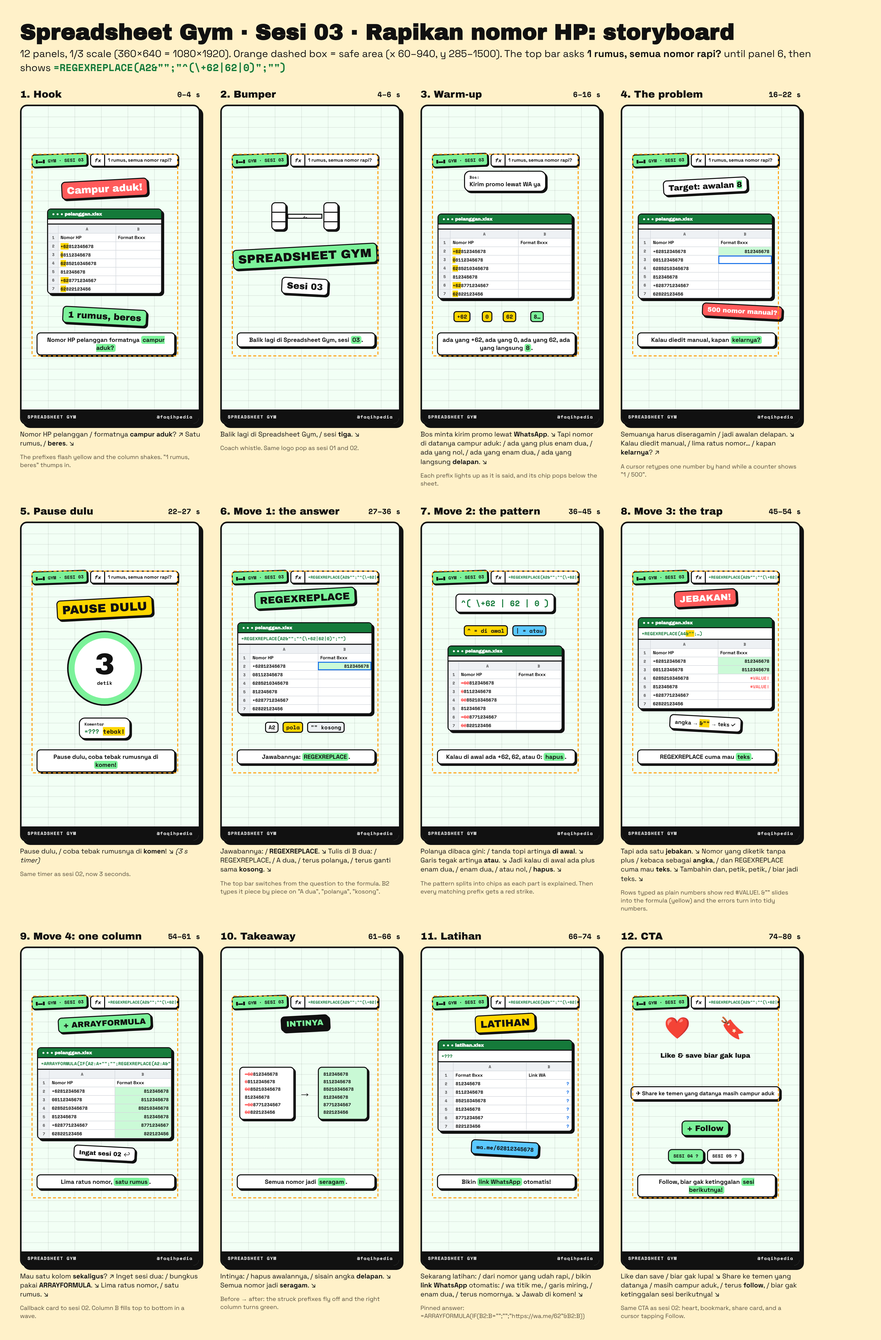
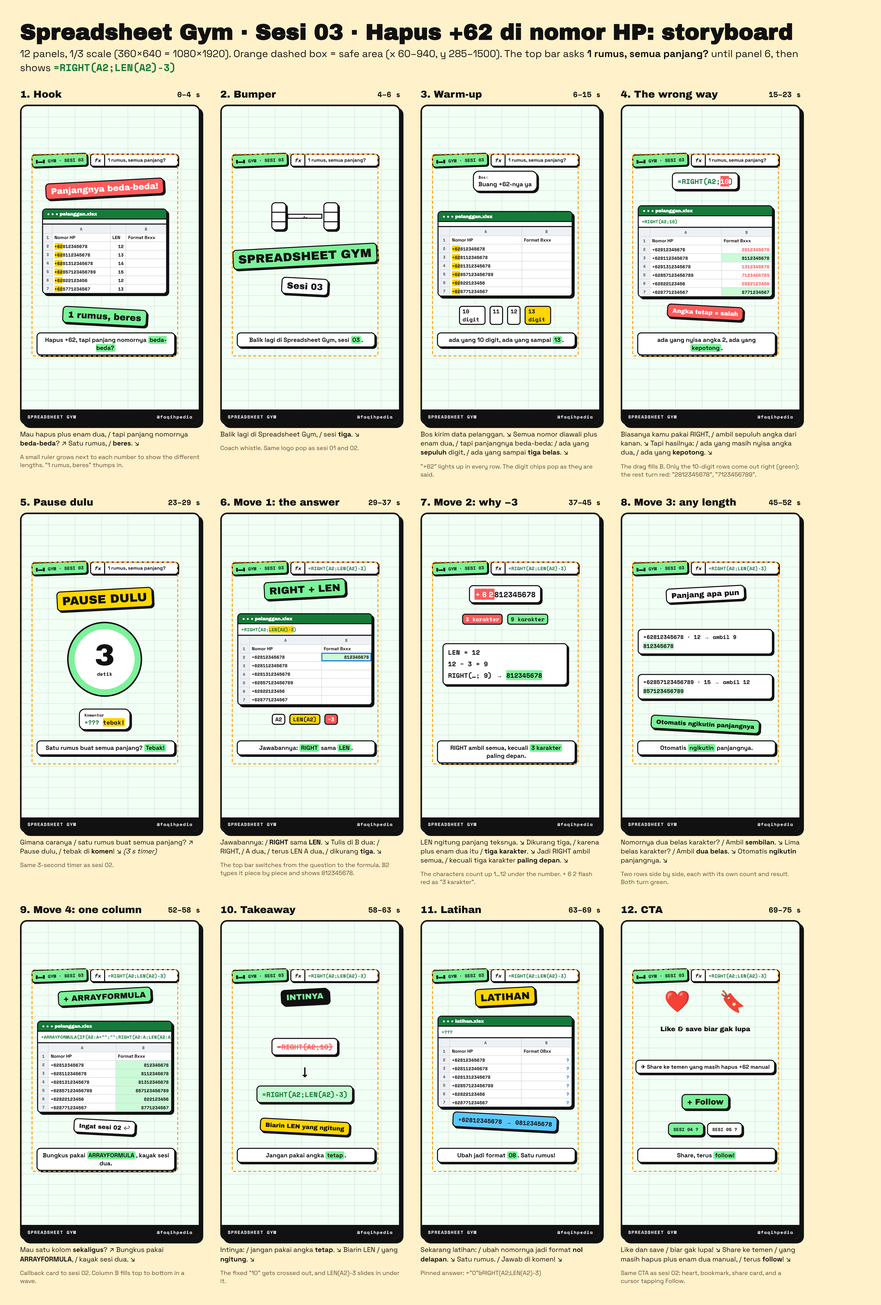
Spreadsheet Gym sesi 03: switch to RIGHT+LEN (remove +62, 10-13 digit numbers)
Claude-Session: https://claude.ai/code/session_018xRo3ZmD22FHxxpmWKTbyx

diff --git a/spreadsheet-gym-nomor-hp/storyboard/storyboard.html b/spreadsheet-gym-nomor-hp/storyboard/storyboard.html
@@ -54,105 +54,106 @@ table.sh td.n { text-align: right; }
 </head>
 <body>
 <div class="page">
-  <h1>Spreadsheet Gym · Sesi 03 · Rapikan nomor HP: storyboard</h1>
-  <div class="sub">12 panels, 1/3 scale (360×640 = 1080×1920). Orange dashed box = safe area (x 60–940, y 285–1500). The top bar asks <code style="font-family:'Space Grotesk';color:#111">1 rumus, semua nomor rapi?</code> until panel 6, then shows <code>=REGEXREPLACE(A2&amp;"";"^(\+62|62|0)";"")</code></div>
+  <h1>Spreadsheet Gym · Sesi 03 · Hapus +62 di nomor HP: storyboard</h1>
+  <div class="sub">12 panels, 1/3 scale (360×640 = 1080×1920). Orange dashed box = safe area (x 60–940, y 285–1500). The top bar asks <code style="font-family:'Space Grotesk';color:#111">1 rumus, semua panjang?</code> until panel 6, then shows <code>=RIGHT(A2;LEN(A2)-3)</code></div>
   <div class="grid" id="grid"></div>
 </div>
 <script>
-const Q = `<div class="head"><div class="chip">▮▬▮ GYM · SESI 03</div><div class="bar"><i>fx</i><b style="color:#111;font-family:'Space Grotesk'">1 rumus, semua nomor rapi?</b></div></div>`;
-const A = `<div class="head"><div class="chip">▮▬▮ GYM · SESI 03</div><div class="bar"><i>fx</i><b style="font-size:8px">=REGEXREPLACE(A2&amp;"";"^(\\+62|62|0)";"")</b></div></div>`;
+const Q = `<div class="head"><div class="chip">▮▬▮ GYM · SESI 03</div><div class="bar"><i>fx</i><b style="color:#111;font-family:'Space Grotesk'">1 rumus, semua panjang?</b></div></div>`;
+const A = `<div class="head"><div class="chip">▮▬▮ GYM · SESI 03</div><div class="bar"><i>fx</i><b>=RIGHT(A2;LEN(A2)-3)</b></div></div>`;
 const strip = `<div class="strip"><span>SPREADSHEET GYM</span><span>@faqihpedia</span></div>`;
 const at = (x, y, html, cls = '') => `<div class="st ${cls}" style="left:${x}px;top:${y}px">${html}</div>`;
 const cap = (h) => `<div class="cap">${h}</div>`;
-const NUMS = [['+62', '812345678'], ['0', '8112345678'], ['62', '85210345678'], ['', '812345678'], ['+62', '8771234567'], ['62', '822123456']];
-// phone sheet: mode 'raw' | 'hl' (prefix highlighted) | 'strike' (prefix struck) ; b: column B values or null
-function phones({ mode = 'raw', b = null, bcls = [], fbar = '', title = 'pelanggan.xlsx', colB = 'Format 8xxx', sel = 0, w = 270, bh = null }) {
-  let h = `<div class="win" style="width:${w}px"><div class="tb">● ● ● ${title}</div><div class="fb">${fbar}</div><table class="sh" style="width:100%"><tr><th></th><th>A</th><th>B</th></tr>`;
-  h += `<tr><th>1</th><td style="font-family:'Space Grotesk';font-weight:700">Nomor HP</td><td style="font-family:'Space Grotesk';font-weight:700">${colB}</td></tr>`;
-  NUMS.forEach(([p, n], i) => {
-    const pre = !p ? '' : mode === 'hl' ? `<span style="background:#FFD600">${p}</span>` : mode === 'strike' ? `<span class="strike">${p}</span>` : p;
+const NUMS = ['812345678', '8112345678', '81312345678', '857123456789', '822123456', '8771234567'];
+const wrong = (n) => ('+62' + n).slice(-10);
+function phones({ hl = false, b = null, bcls = [], fbar = '', title = 'pelanggan.xlsx', colB = 'Format 8xxx', colA = 'Nomor HP', sel = 0, w = 270, len = false, aval = null }) {
+  let h = `<div class="win" style="width:${w}px"><div class="tb">● ● ● ${title}</div><div class="fb">${fbar}</div><table class="sh" style="width:100%"><tr><th></th><th>A</th>${len ? '<th></th>' : ''}<th>B</th></tr>`;
+  h += `<tr><th>1</th><td style="font-family:'Space Grotesk';font-weight:700">${colA}</td>${len ? `<td style="font-family:'Space Grotesk';font-weight:700">LEN</td>` : ''}<td style="font-family:'Space Grotesk';font-weight:700">${colB}</td></tr>`;
+  NUMS.forEach((n, i) => {
+    const a = aval ? aval[i] : (hl ? `<span style="background:#FFD600">+62</span>${n}` : '+62' + n);
     const bv = b ? (b[i] ?? '') : '';
-    h += `<tr><th>${i + 2}</th><td>${pre}${n}</td><td class="n ${bcls[i] ?? ''} ${sel === i + 2 ? 'selc' : ''}">${bv}</td></tr>`;
+    h += `<tr><th>${i + 2}</th><td>${a}</td>${len ? `<td class="n">${n.length + 3}</td>` : ''}<td class="n ${bcls[i] ?? ''} ${sel === i + 2 ? 'selc' : ''}">${bv}</td></tr>`;
   });
   return h + `</table></div>`;
 }
-const CLEAN = NUMS.map(([, n]) => n);
 const P = [
   { t: 'Hook', d: '0–4 s', html: `${Q}
-    ${at(166, 165, `<div class="box big" style="background:var(--red);color:#fff;font-size:20px">Campur aduk!</div>`, 'tilt-l')}
-    ${at(166, 290, phones({ mode: 'hl', w: 230 }))}
+    ${at(166, 165, `<div class="box big" style="background:var(--red);color:#fff;font-size:17px">Panjangnya beda-beda!</div>`, 'tilt-l')}
+    ${at(166, 290, phones({ hl: true, len: true, w: 250 }))}
     ${at(166, 420, `<div class="box big" style="background:var(--green);font-size:18px">1 rumus, beres</div>`, 'tilt-r')}
-    ${cap('Nomor HP pelanggan formatnya <em>campur aduk?</em>')}`,
-    vo: 'Nomor HP pelanggan / formatnya <b>campur aduk</b>? ↗ Satu rumus, / <b>beres</b>. ↘', note: 'The prefixes flash yellow and the column shakes. "1 rumus, beres" thumps in.' },
+    ${cap('Hapus +62, tapi panjang nomornya <em>beda-beda?</em>')}`,
+    vo: 'Mau hapus plus enam dua, / tapi panjang nomornya <b>beda-beda</b>? ↗ Satu rumus, / <b>beres</b>. ↘', note: 'A small ruler grows next to each number to show the different lengths. "1 rumus, beres" thumps in.' },
   { t: 'Bumper', d: '4–6 s', html: `${Q}
     ${at(166, 220, `<div style="display:flex;gap:2px;align-items:center"><div class="box" style="width:30px;height:56px;padding:0;background:repeating-linear-gradient(#fff 0 17px,#111 17px 19px)"></div><div style="width:70px;height:10px;background:#fff;border:2px solid #111;font:italic 700 7px 'Space Mono';text-align:center">fx</div><div class="box" style="width:30px;height:56px;padding:0;background:repeating-linear-gradient(#fff 0 17px,#111 17px 19px)"></div></div>`)}
     ${at(166, 300, `<div class="box big" style="background:var(--green);font-size:24px">SPREADSHEET GYM</div>`, 'tilt-l')}
     ${at(166, 360, `<div class="box big" style="font-size:18px">Sesi 03</div>`, 'tilt-r')}
     ${cap('Balik lagi di Spreadsheet Gym, sesi <em>03</em>.')}`,
     vo: 'Balik lagi di Spreadsheet Gym, / sesi <b>tiga</b>. ↘', note: 'Coach whistle. Same logo pop as sesi 01 and 02.' },
-  { t: 'Warm-up', d: '6–16 s', html: `${Q}
-    ${at(166, 150, `<div class="box" style="border-radius:12px"><div class="mono" style="font-size:8px">Bos:</div><div style="font-weight:700;font-size:12px">Kirim promo lewat WA ya</div></div>`)}
-    ${at(166, 300, phones({ mode: 'hl' }))}
-    ${at(80, 420, `<span class="tok" style="background:var(--yellow)">+62</span>`)}${at(130, 420, `<span class="tok" style="background:var(--yellow)">0</span>`)}${at(175, 420, `<span class="tok" style="background:var(--yellow)">62</span>`)}${at(230, 420, `<span class="tok" style="background:var(--green)">8…</span>`)}
-    ${cap('ada yang +62, ada yang 0, ada yang 62, ada yang langsung <em>8</em>.')}`,
-    vo: 'Bos minta kirim promo lewat <b>WhatsApp</b>. ↘ Tapi nomor di datanya campur aduk: / ada yang plus enam dua, / ada yang nol, / ada yang enam dua, / ada yang langsung <b>delapan</b>. ↘', note: 'Each prefix lights up as it is said, and its chip pops below the sheet.' },
-  { t: 'The problem', d: '16–22 s', html: `${Q}
-    ${at(166, 160, `<div class="box big" style="font-size:16px">Target: awalan <span style="background:var(--green)">8</span></div>`, 'tilt-l')}
-    ${at(166, 300, phones({ mode: 'raw', b: ['812345678', '', '', '', '', ''], bcls: ['hl-d'], sel: 3 }))}
-    ${at(240, 410, `<div class="box big" style="background:var(--red);color:#fff;font-size:13px">500 nomor manual?</div>`, 'tilt-r')}
-    ${cap('Kalau diedit manual, kapan <em>kelarnya?</em>')}`,
-    vo: 'Semuanya harus diseragamin / jadi awalan delapan. ↘ Kalau diedit manual, / lima ratus nomor… / kapan <b>kelarnya</b>? ↗', note: 'A cursor retypes one number by hand while a counter shows "1 / 500".' },
-  { t: 'Pause dulu', d: '22–27 s', html: `${Q}
+  { t: 'Warm-up', d: '6–15 s', html: `${Q}
+    ${at(166, 150, `<div class="box" style="border-radius:12px"><div class="mono" style="font-size:8px">Bos:</div><div style="font-weight:700;font-size:12px">Buang +62-nya ya</div></div>`)}
+    ${at(166, 295, phones({ hl: true }))}
+    ${at(166, 418, `<div style="display:flex;gap:4px"><span class="tok">10 digit</span><span class="tok">11</span><span class="tok">12</span><span class="tok" style="background:var(--yellow)">13 digit</span></div>`)}
+    ${cap('ada yang 10 digit, ada yang sampai <em>13</em>.')}`,
+    vo: 'Bos kirim data pelanggan. ↘ Semua nomor diawali plus enam dua, / tapi panjangnya beda-beda: / ada yang <b>sepuluh</b> digit, / ada yang sampai <b>tiga belas</b>. ↘', note: '"+62" lights up in every row. The digit chips pop as they are said.' },
+  { t: 'The wrong way', d: '15–23 s', html: `${Q}
+    ${at(166, 150, `<div class="box mono" style="font-size:14px;color:var(--fx)">=RIGHT(A2;<span style="background:var(--red);color:#fff">10</span>)</div>`)}
+    ${at(166, 290, phones({ b: NUMS.map((n) => wrong(n) === n ? n : `<span class="zero">${wrong(n)}</span>`), bcls: NUMS.map((n) => wrong(n) === n ? 'hl-d' : ''), fbar: '=RIGHT(A2;10)' }))}
+    ${at(166, 412, `<div class="box big" style="background:var(--red);color:#fff;font-size:12px">Angka tetap = salah</div>`, 'tilt-r')}
+    ${cap('ada yang nyisa angka 2, ada yang <em>kepotong</em>.')}`,
+    vo: 'Biasanya kamu pakai RIGHT, / ambil sepuluh angka dari kanan. ↘ Tapi hasilnya: / ada yang masih nyisa angka dua, / ada yang <b>kepotong</b>. ↘', note: 'The drag fills B. Only the 10-digit rows come out right (green); the rest turn red: "2812345678", "7123456789".' },
+  { t: 'Pause dulu', d: '23–29 s', html: `${Q}
     ${at(166, 170, `<div class="box big" style="background:var(--yellow);font-size:24px">PAUSE DULU</div>`, 'tilt-l')}
     ${at(166, 290, `<div style="width:150px;height:150px;border-radius:50%;border:3px solid #111;background:#fff;display:flex;flex-direction:column;align-items:center;justify-content:center;box-shadow:inset 0 0 0 12px var(--green)"><div class="big" style="font-size:60px;line-height:1">3</div><div class="mono" style="font-size:10px">detik</div></div>`)}
     ${at(166, 410, `<div class="box" style="border-radius:12px"><div class="mono" style="font-size:8px">Komentar</div><div class="mono" style="font-size:12px;color:var(--fx)">=??? <span style="background:var(--yellow);color:#111">tebak!</span></div></div>`)}
-    ${cap('Pause dulu, coba tebak rumusnya di <em>komen!</em>')}`,
-    vo: 'Pause dulu, / coba tebak rumusnya di <b>komen</b>! ↘ <i>(3 s timer)</i>', note: 'Same timer as sesi 02, now 3 seconds.' },
-  { t: 'Move 1: the answer', d: '27–36 s', html: `${A}
-    ${at(166, 150, `<div class="box big" style="background:var(--green);font-size:20px">REGEXREPLACE</div>`, 'tilt-l')}
-    ${at(166, 290, phones({ mode: 'raw', b: ['812345678', '', '', '', '', ''], bcls: ['hl-d'], sel: 2, fbar: '=REGEXREPLACE(A2&amp;"";"^(\\+62|62|0)";"")' }))}
-    ${at(166, 408, `<div style="display:flex;gap:4px"><span class="tok">A2</span><span class="tok" style="background:var(--yellow)">pola</span><span class="tok" style="background:#EEF1F4">"" kosong</span></div>`)}
-    ${cap('Jawabannya: <em>REGEXREPLACE</em>.')}`,
-    vo: 'Jawabannya: / <b>REGEXREPLACE</b>. ↘ Tulis di B dua: / REGEXREPLACE, / A dua, / terus polanya, / terus ganti sama <b>kosong</b>. ↘', note: 'The top bar switches from the question to the formula. B2 types it piece by piece on "A dua", "polanya", "kosong".' },
-  { t: 'Move 2: the pattern', d: '36–45 s', html: `${A}
-    ${at(166, 160, `<div class="box mono" style="font-size:16px;color:var(--fx)">^( \\+62 | 62 | 0 )</div>`)}
-    ${at(166, 215, `<div style="display:flex;gap:5px"><span class="tok" style="background:var(--yellow)">^ = di awal</span><span class="tok" style="background:var(--blue)">| = atau</span></div>`)}
-    ${at(166, 330, phones({ mode: 'strike', w: 230 }))}
-    ${cap('Kalau di awal ada +62, 62, atau 0: <em>hapus</em>.')}`,
-    vo: 'Polanya dibaca gini: / tanda topi artinya <b>di awal</b>. ↘ Garis tegak artinya <b>atau</b>. ↘ Jadi kalau di awal ada plus enam dua, / enam dua, / atau nol, / <b>hapus</b>. ↘', note: 'The pattern splits into chips as each part is explained. Then every matching prefix gets a red strike.' },
-  { t: 'Move 3: the trap', d: '45–54 s', html: `${A}
-    ${at(166, 150, `<div class="box big" style="background:var(--red);color:#fff;font-size:18px">JEBAKAN!</div>`, 'tilt-l')}
-    ${at(166, 280, phones({ mode: 'raw', b: ['812345678', '8112345678', '<span class="zero">#VALUE!</span>', '<span class="zero">#VALUE!</span>', '', ''], bcls: ['hl-d', 'hl-d', '', ''], fbar: '=REGEXREPLACE(A4<span style="background:#FFD600">&amp;""</span>;…)' }))}
-    ${at(166, 400, `<div class="box" style="font-size:11px;font-weight:700">angka → <span class="mono" style="background:var(--yellow)">&amp;""</span> → teks ✓</div>`, 'tilt-r')}
-    ${cap('REGEXREPLACE cuma mau <em>teks</em>.')}`,
-    vo: 'Tapi ada satu <b>jebakan</b>. ↘ Nomor yang diketik tanpa plus / kebaca sebagai <b>angka</b>, / dan REGEXREPLACE cuma mau <b>teks</b>. ↘ Tambahin dan, petik, petik, / biar jadi teks. ↘', note: 'Rows typed as plain numbers show red #VALUE!. &"" slides into the formula (yellow) and the errors turn into tidy numbers.' },
-  { t: 'Move 4: one column', d: '54–61 s', html: `${A}
+    ${cap('Satu rumus buat semua panjang? <em>Tebak!</em>')}`,
+    vo: 'Gimana caranya / satu rumus buat semua panjang? ↗ Pause dulu, / tebak di <b>komen</b>! ↘ <i>(3 s timer)</i>', note: 'Same 3-second timer as sesi 02.' },
+  { t: 'Move 1: the answer', d: '29–37 s', html: `${A}
+    ${at(166, 150, `<div class="box big" style="background:var(--green);font-size:20px">RIGHT + LEN</div>`, 'tilt-l')}
+    ${at(166, 290, phones({ b: ['812345678'], bcls: ['hl-d'], sel: 2, fbar: '=RIGHT(A2;<span style="background:#FFD600">LEN(A2)-3</span>)' }))}
+    ${at(166, 410, `<div style="display:flex;gap:4px"><span class="tok">A2</span><span class="tok" style="background:var(--yellow)">LEN(A2)</span><span class="tok" style="background:var(--red);color:#fff">−3</span></div>`)}
+    ${cap('Jawabannya: <em>RIGHT</em> sama <em>LEN</em>.')}`,
+    vo: 'Jawabannya: / <b>RIGHT</b> sama <b>LEN</b>. ↘ Tulis di B dua: / RIGHT, / A dua, / terus LEN A dua, / dikurang <b>tiga</b>. ↘', note: 'The top bar switches from the question to the formula. B2 types it piece by piece and shows 812345678.' },
+  { t: 'Move 2: why −3', d: '37–45 s', html: `${A}
+    ${at(166, 160, `<div class="box mono" style="font-size:15px"><span style="background:var(--red);color:#fff;padding:0 2px">+</span><span style="background:var(--red);color:#fff;padding:0 2px">6</span><span style="background:var(--red);color:#fff;padding:0 2px">2</span>812345678</div>`)}
+    ${at(166, 210, `<div style="display:flex;gap:5px"><span class="tok" style="background:var(--red);color:#fff">3 karakter</span><span class="tok" style="background:var(--green)">9 karakter</span></div>`)}
+    ${at(166, 300, `<div class="box mono" style="font-size:13px;line-height:1.8;white-space:normal;width:250px">LEN = <b>12</b><br>12 − 3 = <b>9</b><br>RIGHT(…; 9) → <span style="background:var(--green)">812345678</span></div>`)}
+    ${cap('RIGHT ambil semua, kecuali <em>3 karakter</em> paling depan.')}`,
+    vo: 'LEN ngitung panjang teksnya. ↘ Dikurang tiga, / karena plus enam dua itu / <b>tiga karakter</b>. ↘ Jadi RIGHT ambil semua, / kecuali tiga karakter <b>paling depan</b>. ↘', note: 'The characters count up 1…12 under the number. + 6 2 flash red as "3 karakter".' },
+  { t: 'Move 3: any length', d: '45–52 s', html: `${A}
+    ${at(166, 160, `<div class="box big" style="font-size:15px">Panjang apa pun</div>`, 'tilt-l')}
+    ${at(166, 255, `<div class="box mono" style="font-size:11px;line-height:1.7;white-space:normal;width:270px">+62812345678 · <b>12</b> → ambil <b>9</b><br><span style="background:#C9F9D5">812345678</span></div>`)}
+    ${at(166, 345, `<div class="box mono" style="font-size:11px;line-height:1.7;white-space:normal;width:270px">+62857123456789 · <b>15</b> → ambil <b>12</b><br><span style="background:#C9F9D5">857123456789</span></div>`)}
+    ${at(166, 420, `<div class="box big" style="background:var(--green);font-size:12px">Otomatis ngikutin panjangnya</div>`, 'tilt-r')}
+    ${cap('Otomatis <em>ngikutin</em> panjangnya.')}`,
+    vo: 'Nomornya dua belas karakter? / Ambil <b>sembilan</b>. ↘ Lima belas karakter? / Ambil <b>dua belas</b>. ↘ Otomatis <b>ngikutin</b> panjangnya. ↘', note: 'Two rows side by side, each with its own count and result. Both turn green.' },
+  { t: 'Move 4: one column', d: '52–58 s', html: `${A}
     ${at(166, 150, `<div class="box big" style="background:var(--green);font-size:16px">+ ARRAYFORMULA</div>`, 'tilt-l')}
-    ${at(166, 290, phones({ mode: 'raw', b: CLEAN, bcls: CLEAN.map(() => 'hl-d'), fbar: '=ARRAYFORMULA(IF(A2:A="";"";REGEXREPLACE(A2:A&amp;"";…)))' }))}
+    ${at(166, 290, phones({ b: NUMS, bcls: NUMS.map(() => 'hl-d'), fbar: '=ARRAYFORMULA(IF(A2:A="";"";RIGHT(A2:A;LEN(A2:A)-3)))' }))}
     ${at(166, 410, `<div class="box big" style="font-size:12px">Ingat sesi 02 ↩</div>`, 'tilt-r')}
-    ${cap('Lima ratus nomor, <em>satu rumus</em>.')}`,
-    vo: 'Mau satu kolom <b>sekaligus</b>? ↗ Inget sesi dua: / bungkus pakai <b>ARRAYFORMULA</b>. ↘ Lima ratus nomor, / satu rumus. ↘', note: 'Callback card to sesi 02. Column B fills top to bottom in a wave.' },
-  { t: 'Takeaway', d: '61–66 s', html: `${A}
+    ${cap('Bungkus pakai <em>ARRAYFORMULA</em>, kayak sesi dua.')}`,
+    vo: 'Mau satu kolom <b>sekaligus</b>? ↗ Bungkus pakai <b>ARRAYFORMULA</b>, / kayak sesi dua. ↘', note: 'Callback card to sesi 02. Column B fills top to bottom in a wave.' },
+  { t: 'Takeaway', d: '58–63 s', html: `${A}
     ${at(166, 150, `<div class="box big" style="background:#111;color:var(--green);font-size:16px">INTINYA</div>`, 'tilt-l')}
-    ${at(90, 290, `<div class="box mono" style="font-size:9px;line-height:1.7;white-space:normal;width:110px">${NUMS.map(([p, n]) => `<div>${p ? `<span class="strike">${p}</span>` : ''}${n}</div>`).join('')}</div>`)}
-    ${at(166, 290, `<div class="big" style="font-size:24px">→</div>`)}
-    ${at(242, 290, `<div class="box mono" style="font-size:9px;line-height:1.7;background:#C9F9D5;width:100px">${CLEAN.map((n) => `<div>${n}</div>`).join('')}</div>`)}
-    ${cap('Semua nomor jadi <em>seragam</em>.')}`,
-    vo: 'Intinya: / hapus awalannya, / sisain angka <b>delapan</b>. ↘ Semua nomor jadi <b>seragam</b>. ↘', note: 'Before → after: the struck prefixes fly off and the right column turns green.' },
-  { t: 'Latihan', d: '66–74 s', html: `${A}
+    ${at(166, 250, `<div class="box mono" style="font-size:14px"><span class="strike">=RIGHT(A2;10)</span></div>`)}
+    ${at(166, 300, `<div class="big" style="font-size:22px">↓</div>`)}
+    ${at(166, 345, `<div class="box mono" style="font-size:14px;background:#C9F9D5;color:var(--fx)">=RIGHT(A2;LEN(A2)-3)</div>`)}
+    ${at(166, 410, `<div class="box big" style="font-size:12px;background:var(--yellow)">Biarin LEN yang ngitung</div>`, 'tilt-r')}
+    ${cap('Jangan pakai angka <em>tetap</em>.')}`,
+    vo: 'Intinya: / jangan pakai angka <b>tetap</b>. ↘ Biarin LEN / yang <b>ngitung</b>. ↘', note: 'The fixed "10" gets crossed out, and LEN(A2)-3 slides in under it.' },
+  { t: 'Latihan', d: '63–69 s', html: `${A}
     ${at(166, 150, `<div class="box big" style="background:var(--yellow);font-size:20px">LATIHAN</div>`, 'tilt-l')}
-    ${at(166, 275, phones({ mode: 'raw', b: CLEAN.map(() => '<b style="color:#1A73E8">?</b>'), colB: 'Link WA', fbar: '=??? ', title: 'latihan.xlsx' }).replace('Nomor HP</td>', 'Format 8xxx</td>').replace(/\+62|>0(?=8)|>62(?=8)/g, (m) => m.startsWith('>') ? '>' : ''))}
-    ${at(166, 400, `<div class="box mono" style="font-size:11px;background:var(--blue)">wa.me/62812345678</div>`, 'tilt-r')}
-    ${cap('Bikin <em>link WhatsApp</em> otomatis!')}`,
-    vo: 'Sekarang latihan: / dari nomor yang udah rapi, / bikin <b>link WhatsApp</b> otomatis: / wa titik me, / garis miring, / enam dua, / terus nomornya. ↘ Jawab di komen! ↘', note: 'Pinned answer: =ARRAYFORMULA(IF(B2:B="";"";"https://wa.me/62"&B2:B))' },
-  { t: 'CTA', d: '74–80 s', html: `${A}
+    ${at(166, 280, phones({ b: NUMS.map(() => '<b style="color:#1A73E8">?</b>'), colB: 'Format 08xx', fbar: '=??? ', title: 'latihan.xlsx' }))}
+    ${at(166, 400, `<div class="box mono" style="font-size:12px;background:var(--blue)">+62812345678 → 0812345678</div>`, 'tilt-r')}
+    ${cap('Ubah jadi format <em>08</em>. Satu rumus!')}`,
+    vo: 'Sekarang latihan: / ubah nomornya jadi format <b>nol delapan</b>. ↘ Satu rumus. / Jawab di komen! ↘', note: 'Pinned answer: ="0"&RIGHT(A2;LEN(A2)-3)' },
+  { t: 'CTA', d: '69–75 s', html: `${A}
     ${at(110, 160, `<div style="font-size:42px;line-height:1">❤</div>`)}${at(220, 160, `<div style="font-size:42px;line-height:1">🔖</div>`)}
     ${at(166, 215, `<div class="big" style="font-size:13px">Like &amp; save biar gak lupa</div>`)}
-    ${at(166, 290, `<div class="box" style="font-weight:700;font-size:11px">✈ Share ke temen yang datanya masih campur aduk</div>`)}
+    ${at(166, 290, `<div class="box" style="font-weight:700;font-size:11px">✈ Share ke temen yang masih hapus +62 manual</div>`)}
     ${at(166, 360, `<div class="box big" style="font-size:16px;background:var(--green)">+ Follow</div>`)}
     ${at(166, 415, `<div style="display:flex;gap:6px"><span class="box mono" style="font-size:9px;background:var(--green)">SESI 04 ?</span><span class="box mono" style="font-size:9px">SESI 05 ?</span></div>`)}
-    ${cap('Follow, biar gak ketinggalan <em>sesi berikutnya!</em>')}`,
-    vo: 'Like dan save / biar gak lupa! ↘ Share ke temen yang datanya / masih campur aduk, / terus <b>follow</b>, / biar gak ketinggalan sesi berikutnya! ↘', note: 'Same CTA as sesi 02: heart, bookmark, share card, and a cursor tapping Follow.' },
+    ${cap('Share, terus <em>follow!</em>')}`,
+    vo: 'Like dan save / biar gak lupa! ↘ Share ke temen / yang masih hapus plus enam dua manual, / terus <b>follow</b>! ↘', note: 'Same CTA as sesi 02: heart, bookmark, share card, and a cursor tapping Follow.' },
 ];
 document.getElementById('grid').innerHTML = P.map((p, i) => `
   <div class="cell">

diff --git a/spreadsheet-gym-nomor-hp/script.md b/spreadsheet-gym-nomor-hp/script.md
@@ -1,13 +1,13 @@
-# Spreadsheet Gym · Sesi 03 · Rapikan nomor HP
+# Spreadsheet Gym · Sesi 03 · Hapus +62 di nomor HP
 
-Reels 9:16, about 75 seconds. Format from the Faqihpedia Segment Kit (`brand/segment-kit.html`), with the Sesi 02 changes:
-hook → bumper → warm-up (soal kantor) → pause dulu (3 seconds) → gerakan → jebakan → intinya → latihan → CTA.
+Reels 9:16, about 70 seconds. Format from the Faqihpedia Segment Kit (`brand/segment-kit.html`), with the Sesi 02 changes:
+hook → bumper → warm-up (soal kantor) → the wrong way → pause dulu (3 seconds) → gerakan → intinya → latihan → CTA.
 Storyboard: `storyboard.png` (12 panels, same numbers as the table).
 
-**Main formula (shown in the top bar only after the answer is said; before that the bar reads "1 rumus, semua nomor rapi?"):**
-`=REGEXREPLACE(A2&"";"^(\+62|62|0)";"")`
+**Main formula (shown in the top bar only after the answer is said; before that the bar reads "1 rumus, semua panjang?"):**
+`=RIGHT(A2;LEN(A2)-3)`
 
-**Practice data:** your Drive sheet "🏋🏻♀ Spreadsheets Gym", Day 2 (mixed prefixes +62, 62, 0 and 8, all turned into numbers that start with 8).
+**Practice data:** your Drive sheet "🏋🏻♀ Spreadsheets Gym", Day 1 ("Ubah format nomor HP dengan prefix +62 menjadi prefix 8"). Every number starts with +62, but the numbers are 10 to 13 digits long (counted the usual way, starting with 08).
 
 ## How to read the VO marks
 
@@ -18,48 +18,52 @@ Storyboard: `storyboard.png` (12 panels, same numbers as the table).
 | `/` | short pause (about half a second) |
 | **bold** | the stressed word |
 
-Say the numbers in Indonesian ("enam dua", "nol delapan"). On-screen formulas use `;` (Google Sheets with Indonesian locale). If your Sheets uses English, it's `,`.
+Say the numbers in Indonesian ("enam dua", "sepuluh", "dikurang tiga"). On-screen formulas use `;` (Google Sheets with Indonesian locale). If your Sheets uses English, it's `,`.
 
 ## Script
 
 | # | Part | ~Duration | On screen | VO (what you say) |
 |---|---|---|---|---|
-| 1 | Hook | 4 s | Column of messy numbers (+62…, 08…, 62…, 8…) shaking · red sticker "Campur aduk!" · then green "1 rumus, beres" | Nomor HP pelanggan / formatnya **campur aduk**? ↗ Satu rumus, / **beres**. ↘ |
+| 1 | Hook | 4 s | Column of +62 numbers with different lengths, a length ruler next to each · red sticker "Panjangnya beda-beda!" · green "1 rumus, beres" | Mau hapus plus enam dua, / tapi panjang nomornya **beda-beda**? ↗ Satu rumus, / **beres**. ↘ |
 | 2 | Bumper | 2 s | Barbell logo, *SPREADSHEET GYM*, *Sesi 03* · coach whistle | Balik lagi di Spreadsheet Gym, / sesi **tiga**. ↘ |
-| 3 | Warm-up | 10 s | Boss chat "Kirim promo lewat WA ya" · sheet `pelanggan.xlsx`: Nama, Nomor HP · the prefixes light up one by one (+62, 0, 62, 8) | Bos minta kirim promo lewat **WhatsApp**. ↘ Tapi nomor di datanya campur aduk: / ada yang plus enam dua, / ada yang nol, / ada yang enam dua, / ada yang langsung **delapan**. ↘ |
-| 4 | The problem | 6 s | Target column "Format 8xxx" empty · counter "500 nomor" · cursor editing one cell by hand | Semuanya harus diseragamin / jadi awalan delapan. ↘ Kalau diedit manual, / lima ratus nomor… / kapan **kelarnya**? ↗ |
-| 5 | Pause dulu | 2 s + 3 s timer | **PAUSE DULU** + 3-second countdown · comment bubble "=??? tebak!" | Pause dulu, / coba tebak rumusnya di **komen**! ↘ *(3 seconds silent)* |
-| 6 | Move 1: the answer | 9 s | **REGEXREPLACE** · B2 types `=REGEXREPLACE(A2&"";"^(\+62\|62\|0)";"")` piece by piece · result 812345678 · the top bar reveals the formula | Jawabannya: / **REGEXREPLACE**. ↘ Tulis di B dua: / REGEXREPLACE, / A dua, / terus polanya, / terus ganti sama **kosong**. ↘ |
-| 7 | Move 2: reading the pattern | 9 s | The pattern `^(\+62\|62\|0)` broken into chips: `^` = "di awal", `\|` = "atau", `+62` · `62` · `0` · the matching prefix in each number gets a red strike | Polanya dibaca gini: / tanda topi artinya **di awal**. ↘ Garis tegak artinya **atau**. ↘ Jadi kalau di awal ada plus enam dua, / enam dua, / atau nol, / **hapus**. ↘ |
-| 8 | Move 3: the trap | 9 s | A cell without + shows `#VALUE!` (red): "REGEXREPLACE cuma mau teks" · `&""` gets added (yellow) · error → 812345678 | Tapi ada satu **jebakan**. ↘ Nomor yang diketik tanpa plus / kebaca sebagai **angka**, / dan REGEXREPLACE cuma mau **teks**. ↘ Tambahin dan, petik, petik, / biar jadi teks. ↘ |
-| 9 | Move 4: one column | 7 s | Callback to Sesi 02: wrap in `ARRAYFORMULA(IF(A2:A="";""; … A2:A&"" …))` · column B fills top to bottom in a wave | Mau satu kolom **sekaligus**? ↗ Inget sesi dua: / bungkus pakai **ARRAYFORMULA**. ↘ Lima ratus nomor, / satu rumus. ↘ |
-| 10 | Takeaway | 5 s | Before → after: messy column → tidy 8xxx column, all green | Intinya: / hapus awalannya, / sisain angka **delapan**. ↘ Semua nomor jadi **seragam**. ↘ |
-| 11 | Latihan | 8 s | **LATIHAN** · sheet: B "Format 8xxx" (tidy), C "Link WA" = **?** · example chip `wa.me/62812345678` | Sekarang latihan: / dari nomor yang udah rapi, / bikin **link WhatsApp** otomatis: / wa titik me, / garis miring, / enam dua, / terus nomornya. ↘ Jawab di komen! ↘ |
-| 12 | CTA | 6 s | Like + save icons · share card "ke temen yang datanya masih campur aduk" · cursor taps *+ Follow* → *Following ✓* | Like dan save / biar gak lupa! ↘ Share ke temen yang datanya / masih campur aduk, / terus **follow**, / biar gak ketinggalan sesi berikutnya! ↘ |
+| 3 | Warm-up | 9 s | Boss chat "Buang +62-nya ya" · sheet `pelanggan.xlsx`: A "Nomor HP", B "Format 8xxx" · "+62" in every row highlighted · digit-count chips 10, 11, 12, 13 | Bos kirim data pelanggan. ↘ Semua nomor diawali plus enam dua, / tapi panjangnya beda-beda: / ada yang **sepuluh** digit, / ada yang sampai **tiga belas**. ↘ |
+| 4 | The wrong way | 8 s | B2 types `=RIGHT(A2;10)` and is dragged down: short numbers come out with "2" still in front (red), long ones get cut (red) · sticker "Angka tetap = salah" | Biasanya kamu pakai RIGHT, / ambil sepuluh angka dari kanan. ↘ Tapi hasilnya: / ada yang masih nyisa angka dua, / ada yang **kepotong**. ↘ |
+| 5 | Pause dulu | 3 s + 3 s timer | **PAUSE DULU** + 3-second countdown · comment bubble "=??? tebak!" | Gimana caranya / satu rumus buat semua panjang? ↗ Pause dulu, / tebak di **komen**! ↘ *(3 seconds silent)* |
+| 6 | Move 1: the answer | 8 s | **RIGHT + LEN** · B2 types `=RIGHT(A2;LEN(A2)-3)` piece by piece · the top bar reveals the formula · B2 = 812345678 (green) | Jawabannya: / **RIGHT** sama **LEN**. ↘ Tulis di B dua: / RIGHT, / A dua, / terus LEN A dua, / dikurang **tiga**. ↘ |
+| 7 | Move 2: why minus 3 | 8 s | `LEN(A2)` counts the characters: "+62812345678" → **12** · `+` `6` `2` boxed = **3 karakter** · RIGHT takes 12 − 3 = 9 from the right | LEN ngitung panjang teksnya. ↘ Dikurang tiga, / karena plus enam dua itu / **tiga karakter**. ↘ Jadi RIGHT ambil semua, / kecuali tiga karakter **paling depan**. ↘ |
+| 8 | Move 3: any length | 7 s | Two rows side by side: 12 characters → take 9 · 15 characters → take 12 · both green | Nomornya dua belas karakter? / Ambil **sembilan**. ↘ Lima belas karakter? / Ambil **dua belas**. ↘ Otomatis **ngikutin** panjangnya. ↘ |
+| 9 | Move 4: one column | 6 s | Callback to Sesi 02: `=ARRAYFORMULA(IF(A2:A="";"";RIGHT(A2:A;LEN(A2:A)-3)))` · column B fills in a wave | Mau satu kolom **sekaligus**? ↗ Bungkus pakai **ARRAYFORMULA**, / kayak sesi dua. ↘ |
+| 10 | Takeaway | 5 s | Card: ~~RIGHT(A2;**10**)~~ → RIGHT(A2;**LEN(A2)-3**) · "Biarin LEN yang ngitung" | Intinya: / jangan pakai angka **tetap**. ↘ Biarin LEN / yang **ngitung**. ↘ |
+| 11 | Latihan | 6 s | **LATIHAN** · sheet: A "+62…", B "Format 08xx" = **?** · example chip `0812345678` | Sekarang latihan: / ubah nomornya jadi format **nol delapan**. ↘ Satu rumus. / Jawab di komen! ↘ |
+| 12 | CTA | 6 s | Like + save icons · share card "ke temen yang masih hapus +62 manual" · cursor taps *+ Follow* → *Following ✓* | Like dan save / biar gak lupa! ↘ Share ke temen / yang masih hapus plus enam dua manual, / terus **follow**! ↘ |
 
-About 75 s with the 3-second pause.
+About 70 s with the 3-second pause.
 
 ## Latihan answer (for pinning in the comments)
 
-One cell: `="https://wa.me/62"&B2`
+One cell: `="0"&RIGHT(A2;LEN(A2)-3)`
 
-Whole column: `=ARRAYFORMULA(IF(B2:B="";"";"https://wa.me/62"&B2:B))`
+Whole column: `=ARRAYFORMULA(IF(A2:A="";"";"0"&RIGHT(A2:A;LEN(A2:A)-3)))`
+
+Another way that also works: `=SUBSTITUTE(A2;"+62";"0")`
 
 ## Sample data (sheet `pelanggan.xlsx`)
 
-| A: Nomor HP | B: Format 8xxx |
-|---|---|
-| +62812345678 | 812345678 |
-| 08112345678 | 8112345678 |
-| 6285210345678 | 85210345678 |
-| 812345678 | 812345678 |
-| +628771234567 | 8771234567 |
-| 62822123456 | 822123456 |
+| A: Nomor HP | Characters | 08 format (digits) | B: Format 8xxx |
+|---|---|---|---|
+| +62812345678 | 12 | 0812345678 (10) | 812345678 |
+| +628112345678 | 13 | 08112345678 (11) | 8112345678 |
+| +6281312345678 | 14 | 081312345678 (12) | 81312345678 |
+| +62857123456789 | 15 | 0857123456789 (13) | 857123456789 |
+| +62822123456 | 12 | 0822123456 (10) | 822123456 |
+| +628771234567 | 13 | 08771234567 (11) | 8771234567 |
+
+With `=RIGHT(A2;10)` (the wrong way): 12 characters → "2812345678" (an extra 2), 15 characters → "7123456789" (the "85" is cut off).
 
 ## Recording notes
 
 - Record each row as its own take, like Sesi 02. Silences and tails get cut automatically.
-- Row 6: you don't have to read the whole formula. The screen types it out; just say the pieces in the VO.
-- Row 7: say "tanda topi" and "garis tegak" a bit slower. That's the moment the pattern clicks.
-- Row 1: put the energy on "**campur aduk**", end "**beres**" short and firm.
-- Questions (rows 1, 4 and 9): let the last word rise ↗. Statements: end short and firm ↘.
+- Row 4 is the "wrong way". Say "kepotong" with a little disappointment. It sets up the question.
+- Row 7: say "tiga karakter" a bit slower. That's the moment it clicks.
+- Row 1: put the energy on "**beda-beda**", end "**beres**" short and firm.
+- Questions (rows 1, 5 and 9): let the last word rise ↗. Statements: end short and firm ↘.

diff --git a/README.md b/README.md
@@ -139,7 +139,6 @@ GAP=0.18 python3 scripts/build_vo.py --pause-after 6 3.2 <clean dir>/{01..17}.wa
 npm run render -- --browser-executable=<chrome-headless-shell>
 ```
 
-## Spreadsheet Gym · Sesi 03: Rapikan nomor HP (script + storyboard)
+## Spreadsheet Gym · Sesi 03: Hapus +62 di nomor HP (script + storyboard)
 
-`spreadsheet-gym-nomor-hp/script.md` is the next episode, about 75 s. A customer list mixes the prefixes +62, 62, 0 and 8, and one `REGEXREPLACE` makes every number start with 8: `=REGEXREPLACE(A2&"";"^(\+62|62|0)";"")`. The script reads the pattern (`^` = di awal, `|` = atau), covers the trap (numbers typed without + are numbers, so `&""` turns them into text), and calls back to Sesi 02 by wrapping the formula in ARRAYFORMULA. The latihan asks for a WhatsApp link (`wa.me/62…`). The data comes from the Drive practice sheet "Spreadsheets Gym" (Day 2). The VO lines carry recording marks (↗, ↘, `/` short pause). The top bar keeps the answer hidden until it's said, and the pause is 3 seconds, as in the final Sesi 02. `storyboard.png` draws the 12 panels inside the shared safe area. Its source is `storyboard/storyboard.html`.
-
+`spreadsheet-gym-nomor-hp/script.md` is the next episode, about 70 s. Every number starts with +62, but they are 10 to 13 digits long. A fixed `=RIGHT(A2;10)` either leaves a stray "2" or cuts digits off, while `=RIGHT(A2;LEN(A2)-3)` lets LEN do the counting (minus the 3 characters of "+62"). It calls back to Sesi 02 with ARRAYFORMULA, and the latihan turns the numbers into the 08 format (`="0"&RIGHT(A2;LEN(A2)-3)`). The data comes from the Drive practice sheet "Spreadsheets Gym" (Day 1). The VO lines carry recording marks (↗, ↘, `/` short pause). The top bar keeps the answer hidden until it's said, and the pause is 3 seconds, as in the final Sesi 02. `storyboard.png` draws the 12 panels inside the shared safe area. Its source is `storyboard/storyboard.html`. An earlier REGEXREPLACE draft was replaced by this simpler version.
